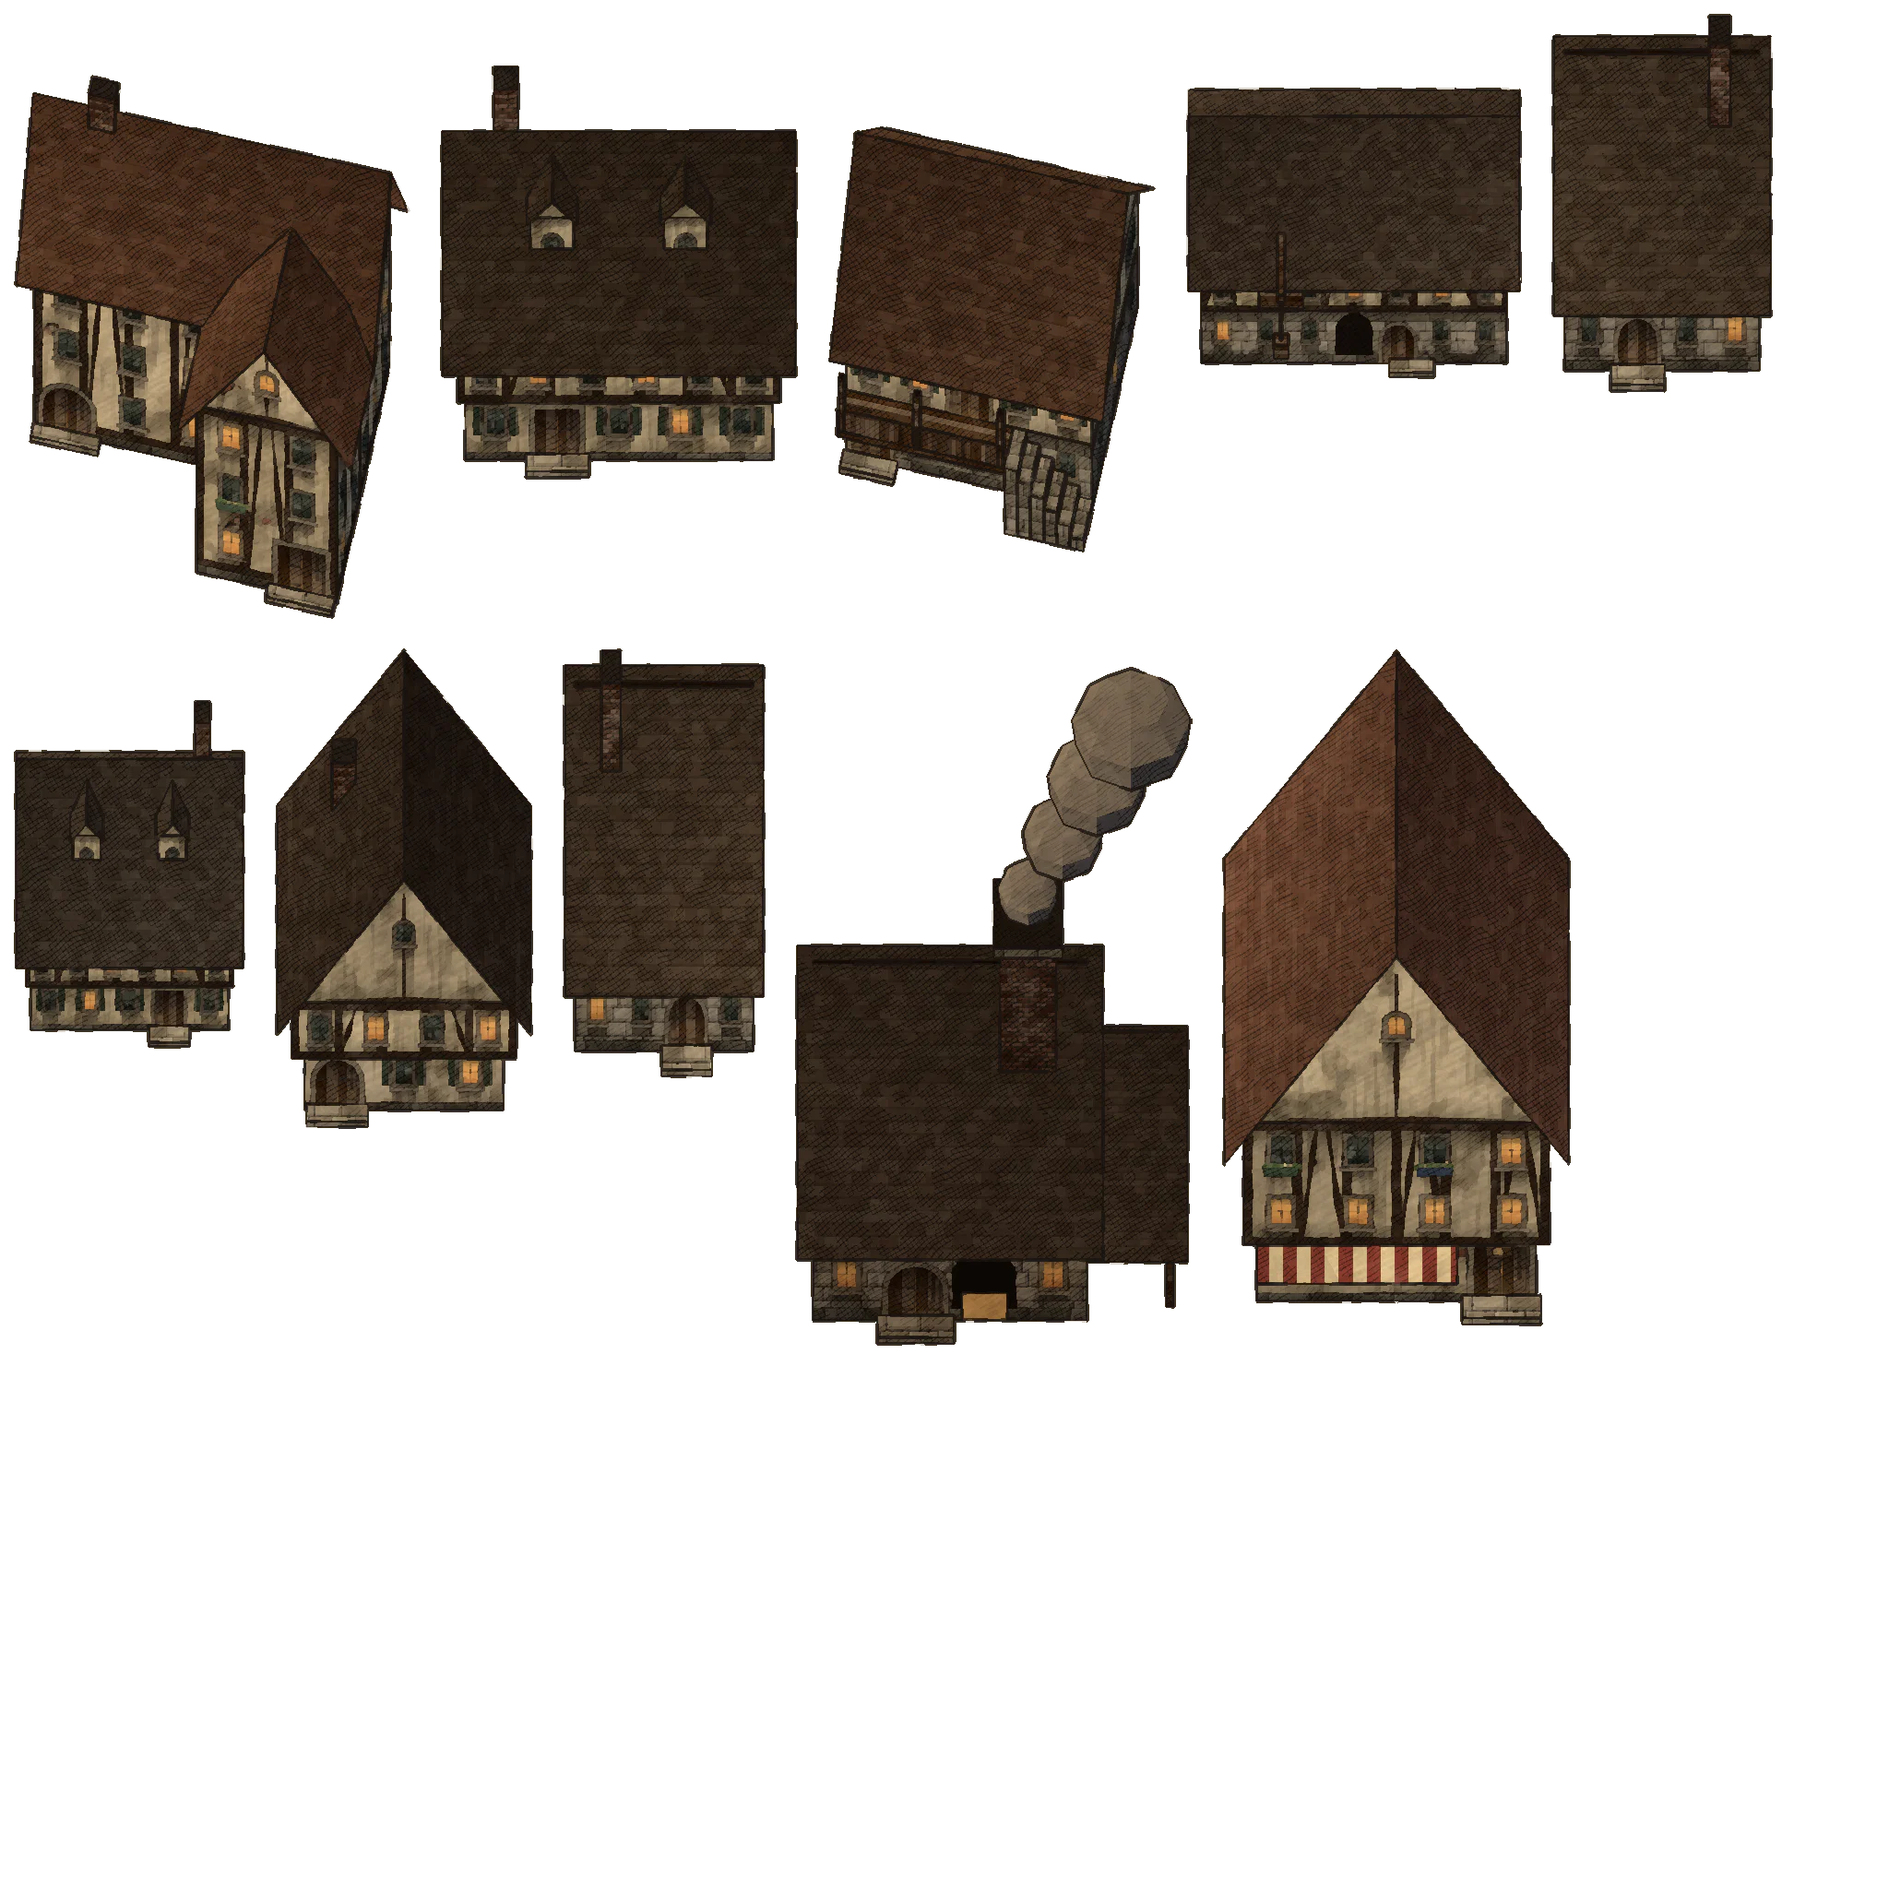
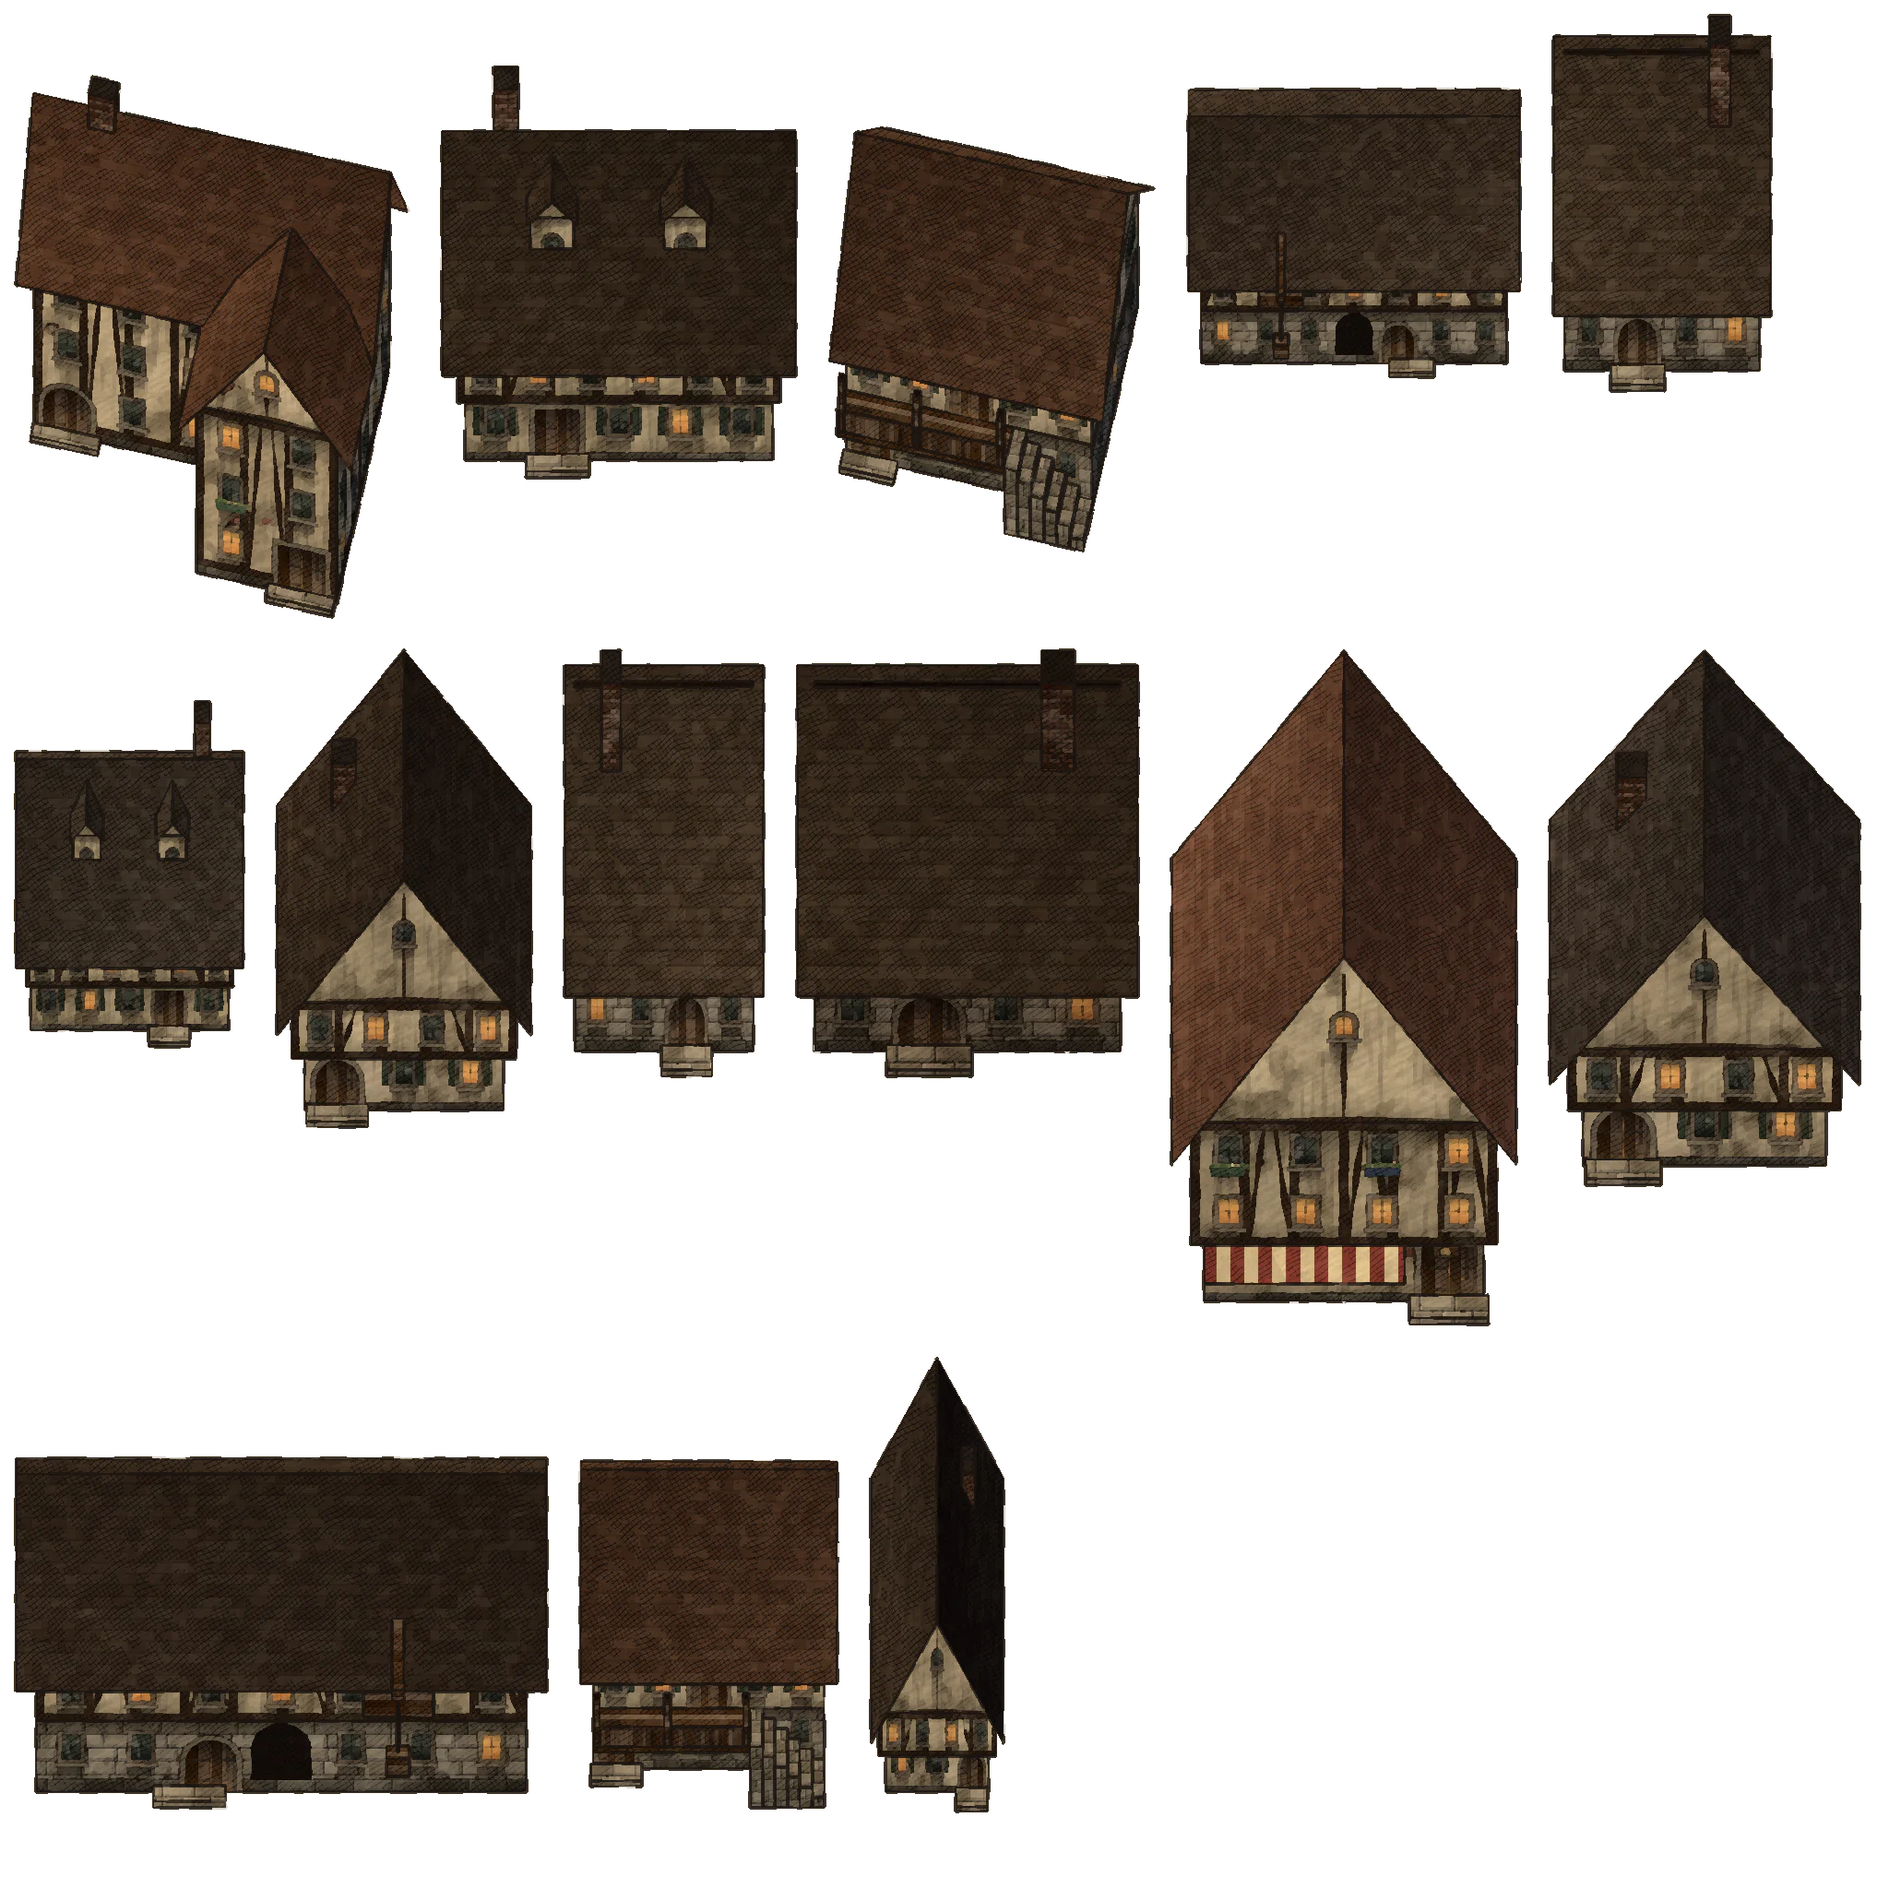
대장간 되돌림(연기 · 화덕 불빛 · 모루 소품 지움 — 외쪽지붕 공방으로), 차양 문 비움은 유지
Claude-Session: https://claude.ai/code/session_01Afqs6azFa79xsLhQs21k9Z

Changed region(s): [[0.0, 0.3438, 1.0, 0.9688]]

diff --git a/tools/town_v4.py b/tools/town_v4.py
@@ -526,10 +526,6 @@ def life(t: City):
 			t.spot("tree", cx, cz - 1.2, 1.0, 1.0)
 		near(t, "bench", cx, cz + 1.4, 2.0, 0.8)
 		near(t, "planter", cx + 1.5, cz + 0.2, 0.9, 0.9)
-	for h in t.p.houses:  # 대장간 문 옆 모루(CT105)
-		if h.get("facility") == "smithy":
-			(fx, fz), (w, _d) = h["front_c"], h["wd"]
-			near(t, "anvil", fx + w / 2 - 1.3, fz + 1.1, 0.9, 0.9)
 	# 포장마차: 서문 길 · 둑길 창고 앞 · 아랫길
 	near(t, "wagon", -22.5, -23.0, 2.6, 1.0)
 	near(t, "wagon", 29.5, 18.6, 2.6, 1.0)

diff --git a/docs/ASSUMPTIONS.md b/docs/ASSUMPTIONS.md
@@ -652,7 +652,7 @@
 | CT102 | **계단 턱 낮게 · 집 밑 구분 · 길 좁히기**(사용자 2026-11-03 "계단 턱이 너무 높고 건물 바닥 근처랑 지나다니는 길이 구분이 안 됨. 그냥 장난감 건물을 땅바닥에 올린 느낌? 그리고 길이 너무 넓어 조금만 줄여 줄래?"): 단 높이 윗단 3.0 → 2.0 · 아랫단 −2.4 → −1.6 · 수로 −4.2 → −2.8칸(옹벽이 낮아진다). 바닥 그림의 계단은 칸마다 큰 턱 하나 대신 0.2칸(6px) 잔 턱(칸 가운데 높이를 세로로 이어 나눔 — 걷기 높이는 그대로 칸 보간). 집 · 시설 둘레 돌길에 판석 보도(18px) · 연석 먹선 · 바깥 도랑 그늘, 벽 밑 젖은 그늘(6px) · 먹선, 해 반대쪽(동 · 북 — 높이 1칸당 0.8 · 0.47칸)으로 드리운 그림자(집 높이 = 층 × 1.2 + 지붕). 블록을 길 쪽으로 0.5칸 넓혀(그 띠가 블록 사이 빈 땅일 때만 — 계단 · 큰길 · 광장 · 마당 · 시설 · 옹벽 · 성벽 쪽은 그대로) 블록 사이 길이 1칸 좁아진다(4 → 3). 안뜰이 2.5칸보다 좁게 남으면 등을 맞댄 두 줄로 | 사용자 요청 + 가정(높이 · 턱 · 보도 폭 · 해 방향 · 넓힐 칸) | 높이 `town_v4.HIGH/LOWH/WATER` · 넓힘 `town_v4.GROW` · 턱 `town_ground_bake.STEP` · 보도 `WALK_W` · 그림자 `SUN` · `footing` |
 | CT103 | **도시 3차 개선 — 구역 개성 · 길 위계 · 랜드마크 · 강변**(사용자 2026-11-03 "도시 전체 레이아웃 및 환경 개선 3차" 명세 — 카메라 · 화풍 · 광장 · 큰길 · 강과 다리 · 시설 기능 유지, 무작정 늘리지 말고 공간 완성도 · 가독성 우선): 카메라는 지금 그대로(사용자의 "완전한 탑뷰"는 지금 화면을 가리킨다고 보고 바꾸지 않았다). ①구역 태그(집마다 `zone`): 윗단 = civic(석조 · 잿빛 지붕 · 넓은 필지) · 광장 · 시장 · 선술집 골목 · 가게 줄 = market(가게집 · 모퉁이 가게 · 차양 · 간판 · 붉은 지붕) · 좌우 = res(반목조 · 좁은 2층 · 공방) · 강변 줄 = river(창고 · 공방). 이웃 집은 늘 다른 바리에이션. ②랜드마크: 신전 = 성당(회랑 셋 · 버팀벽 · 정면 종탑 첨탑, 지붕을 낮춰 탑이 보이게), 윗단에 관청(시계탑 · 아케이드 · 현수막 — 기능 없는 랜드마크), 강변 창고(도르래 들보 · 다락 짐 문), 도서관 색을 바닥 · 집과 맞춰 어둡게. ③배치: 꿰뚫는 굽은 골목 셋(경비 블록 · 가게 블록 · 아랫동네), 모퉁이 쉼터 둘(나무 · 벤치 · 화분), 남쪽 줄 집 30%가 길에서 0.3칸 물러섬. ④길 위계: 큰길(정한 선 아홉 — 신전 거리 · 윗단 남쪽 길 · 서문 길 · 선술집 골목 · 중단 남쪽 길 · 아랫길 · 둑길 · 북문 길)은 밝고 반듯한 돌(윗단은 큰 마름돌), 그 밖 블록 사이 · 골목은 작은 자갈, 광장 · 시장은 45° 돌린 판석, 광장 · 시장 들머리에 짙은 화강암 띠. 돌 얼룩 · 구멍 · 이끼를 줄임. 지붕 기와를 크게 · 덜 시끄럽게. 창빛 비율 0.3 → 0.42, 가로등 · 벽 등불 밑 따뜻한 빛 웅덩이. ⑤강변: 걸어 나가는 나무 부두 둘(널 · 끝 난간 · 곁에 거룻배 — 배는 물 칸 위 그림만, TownMap `FLOATING`) · 짐 · 통 · 포장마차. ⑥생활 소품 6가지(Deco3D — 간판 · 벽 등불 · 포장마차 · 부두 난간 · 거룻배 · 골목 살림)를 구역 용도대로 | 사용자 요청 + 가정(구역 경계 · 관청 자리 · 큰길 선 · 부두 자리 · 소품 수) | 구역 `town_v4` `block(zone=, zone_s=)` · 집 꼴 `HouseFit.ZONE_FNS/ZONE_ROOF` · 새 건물 `tools/town_kit/Designs2.gd` · 큰길 `t.mains` · 골목 `through=` · 쉼터 `pocket=` · 바닥 `town_ground_bake.road/diag/planks/entries/lamp_light` |
 | CT104 | **주요 시설은 다른 건물과 확실히 다르게 · 도서관 = 돔 얹은 박물관**(사용자 2026-11-03 "게임 내 주요 건물들은 다른 건물들과 비교되게 — 신전은 비교적 하얀 색감 · 도서관은 천문관 같다, 박물관 같은 느낌, 일반 건물 위에 돔형 지붕을 얹은 느낌"): 시설마다 외벽 · 지붕 기운(`HouseFit.FAC_WALL` · `FAC_ROOF` — 지붕 아닌 면에 곱함): 신전 = 흰 석회석 벽 · 옅은 잿빛 지붕(성당), 도서관 = 따뜻한 사암 · 청회색 슬레이트 + 짙은 납 · 구리 돔, 은행 = 옅은 잿돌 · 청회색 슬레이트, 길드 = 짙은 돌 · 검붉은 지붕 · 깃발, 여관 = 새 꼴(3 · 4층 반목조 · 앞 박공 · 2층 회랑 발코니 · 술잔 간판 — 길드와 헷갈리지 않게), 잡화점 = 차양 · 붉은 지붕, 대장간 = 그을린 벽 · 짙은 지붕. 도서관 = 2층 석조 본관(낮은 모임지붕) + 정면 기둥 현관(계단 · 기둥 여섯 · 삼각 박공) + 지붕 가운데 창 둘린 둥근 받침 위 낮은 돔(갈빗대 여섯 — 면마다 먹선이 그물처럼 보이지 않게 묶음) + 꼭대기 작은 탑. 지도 필지는 원 → 네모(13 × 9.6칸, style "stone") | 사용자 요청 + 가정(시설별 색 · 도서관 꼴 · 여관 꼴) | 색 `HouseFit.FAC_WALL/FAC_ROOF/ROOF_TINTS` · 꼴 `tools/town_kit/Designs2.gd`(`_museum` · `_inn` · `_cathedral`) · 자리 `town_v4` 도서관 `t.fac(7, …, fid="library")` |
-| CT105 | **대장간 연기 · 모루 · 차양이 문을 가리지 않게**(사용자 2026-11-03 "대장간 연기랑 모루 넣고, 잡화점 천막 때문에 문이 안 보임"): 대장간 = 새 꼴 `_smithy`(돌 공방 · 열린 화덕 아치 안 벌건 숯불 · 큰 벽돌 굴뚝 + 비스듬히 오르는 잿빛 연기 덩이 넷 · 옆 작업 처마), 문 옆에 모루 소품(그루터기 받침 · 쇠 모루 · 망치). 차양은 문 위를 비운다(`Designs2.awning` — 문 가운데 ±0.7칸 비우고, 1층 위 · 짧게) — 잡화점 · 시장 가게집(`_shop_house2`) · 모퉁이 가게 모두 | 사용자 요청 + 가정(연기 꼴 · 모루 자리) | `Designs2._smithy` · `awning` · 모루 `Deco3D._anvil` · 자리 `town_v4.life` |
+| CT105 | **차양이 문을 가리지 않게**(사용자 2026-11-03 "잡화점 천막 때문에 문이 안 보임"): 차양은 문 위를 비운다(`Designs2.awning` — 문 가운데 ±0.7칸 비우고, 1층 위 · 짧게) — 잡화점 · 시장 가게집(`_shop_house2`) · 모퉁이 가게 모두. 대장간 연기 · 화덕 불빛 · 모루는 넣었다가 **사용자 요청으로 되돌렸다**(같은 날 "대장간 롤백해" — 대장간은 CT104 그대로 외쪽지붕 공방 `_workshop` · 그을린 벽, 모루 소품 없음) | 사용자 요청 | `Designs2.awning` |
 
 ## 탐험 맵 그래픽 개편 A0 (2026-10-16, 사용자 지시 `docs/PROMPT_ART_MAP.md`)
 

diff --git a/docs/archive/PROGRESS_LOG.md b/docs/archive/PROGRESS_LOG.md
@@ -6,7 +6,7 @@
 
 ## 작업 기록 (2026-10-20 이후 — 위가 최신)
 
-- **대장간 연기 · 모루 · 차양 (2026-11-03, 사용자 "대장간 연기랑 모루 넣고, 잡화점 천막 때문에 문이 안 보임", CT105)**: `Designs2._smithy`(화덕 아치 숯불 · 큰 굴뚝 · `Deco3D.blob` 연기 넷 · 작업 처마), `Designs2.awning`(문 위 비움) → `_shop_house2` · `_corner_shop`, HouseFit FAC_FNS shop · smithy · ZONE_FNS market · PLACE_FNS 가게를 새 꼴로, 모루 소품(`Deco3D._anvil` · TownRules · test_town), `town_v4.life` 대장간 문 옆 모루. 집 77채 다시 굽기. 그림 `plans/town/v4/shop_smithy_ct105.jpg` · `game_smithy.jpg` · `game_shop.jpg`.
+- **차양 문 비움 · 대장간은 되돌림 (2026-11-03, 사용자가 대장간을 "롤백해" — `_smithy` · 연기 · 화덕 불빛 · 모루 소품을 지우고 대장간은 `_workshop`으로. 아래는 처음 한 일 기록, 사용자 "대장간 연기랑 모루 넣고, 잡화점 천막 때문에 문이 안 보임", CT105)**: `Designs2._smithy`(화덕 아치 숯불 · 큰 굴뚝 · `Deco3D.blob` 연기 넷 · 작업 처마), `Designs2.awning`(문 위 비움) → `_shop_house2` · `_corner_shop`, HouseFit FAC_FNS shop · smithy · ZONE_FNS market · PLACE_FNS 가게를 새 꼴로, 모루 소품(`Deco3D._anvil` · TownRules · test_town), `town_v4.life` 대장간 문 옆 모루. 집 77채 다시 굽기. 그림 `plans/town/v4/shop_smithy_ct105.jpg` · `game_smithy.jpg` · `game_shop.jpg`.
 
 - **주요 시설 구별 · 도서관 박물관 (2026-11-03, 사용자 "주요 건물들은 다른 건물들과 비교되게 — 신전은 하얀 색감 · 도서관은 천문관 같다, 박물관처럼 일반 건물 위에 돔", CT104)**: `HouseFit.FAC_WALL`(외벽 기운 — 지붕 아닌 면에 곱함) · `FAC_ROOF`(pale · slate · crimson 추가), `Designs2._museum`(본관 + 기둥 현관 + 둥근 받침 위 낮은 돔 + 작은 탑, `dome()` — 세 칸씩 한 면 gid로 갈빗대 여섯) · `_inn`(얕은 4층 반목조 · 앞 박공 · 발코니 · 술잔 간판), `paint_town_hand._ids` gid 지원, 도서관 필지 원 → 네모(`town_v4` fac, export style "stone", test_town 원 아님 확인). 시설 7채 다시 굽기 · 바닥 다시 굽기. 그림 `plans/town/v4/facilities_ct104.jpg` · `compare_ct104.jpg`. 남은 것: 대장간이 작고 밋밋(연기 · 모루 소품) · 옛 원형 열람당 코드(`HouseFit._rotunda`, TownLandmark.rotunda)는 v3 지도용으로 남김.
 

diff --git a/docs/plans/city_town_v3.md b/docs/plans/city_town_v3.md
@@ -470,7 +470,7 @@
 ## 18. 대장간 연기 · 모루 · 차양 (CT105)
 
 > 사용자(2026-11-03): "대장간 연기랑 모루 넣고 그리고 잡화점 천막 때문에 문이 안 보임 수정 좀".
-> 그림: `plans/town/v4/shop_smithy_ct105.jpg` · `game_smithy.jpg` · `game_shop.jpg`.
+> 그림: `plans/town/v4/game_shop.jpg`.
 
-- 대장간: 돌 공방 · 열린 화덕 아치 안 벌건 숯불 · 큰 벽돌 굴뚝 · 비스듬히 오르는 잿빛 연기 덩이 넷 · 옆 작업 처마. 문 옆 모루(그루터기 · 쇠 모루 · 망치).
+- 대장간: 연기 · 화덕 불빛 · 모루를 넣었다가 사용자 요청("대장간 롤백해")으로 되돌렸다 — CT104 그대로(외쪽지붕 공방 · 그을린 벽).
 - 차양: 문 가운데 ±0.7칸은 비우고 1층 위에 짧게 — 3/4에서 차양이 문을 가리지 않는다(잡화점 · 시장 가게집 · 모퉁이 가게).

diff --git a/docs/PROGRESS.md b/docs/PROGRESS.md
@@ -48,7 +48,7 @@
 
 ## 3. 최근 작업 (위가 최신, 10줄까지 — 자세한 것은 PROGRESS_LOG에서 제목으로)
 
-- 2026-11-03 **대장간 연기 · 모루 · 차양 문 비움**(CT105) · 흰 신전 · 돔 도서관 · 시설 색(CT104) · 도시 3차(CT103) · CT100~CT102.
+- 2026-11-03 **차양이 문을 가리지 않게**(CT105 — 대장간 연기 · 모루는 되돌림) · 흰 신전 · 돔 도서관 · 시설 색(CT104) · 도시 3차(CT103) · CT100~CT102.
 - 2026-11-02 **집 바리에이션 16채**(손그림 · 그림자 없음 · 사람 크기 문 · 낮은 시점 + 정면 판 — `plans/town/variants/` — CT86~CT88).
 - 2026-11-02 **도시 = 걸어 다니는 동네 지도 M0**(CT82) · **건물 실내 모두 지움**(시설 창 — CT83).
 - 그 이전: PROGRESS_LOG.
